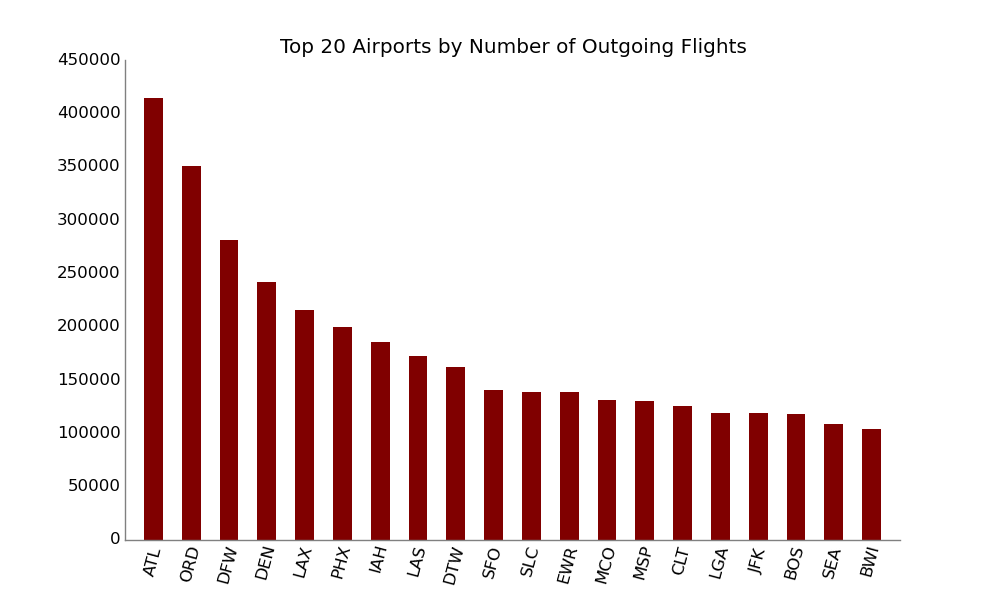
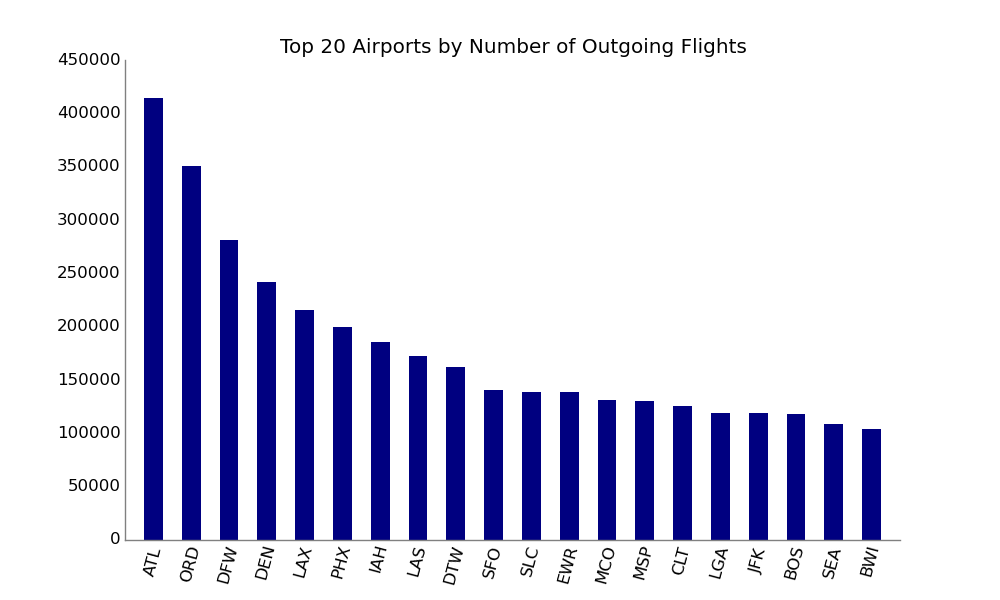
edit plot

Changed region(s): [[0.124, 0.15, 0.899, 0.9]]

diff --git a/PythonScripts/num_outgoing_by_airport/bar_plot.py b/PythonScripts/num_outgoing_by_airport/bar_plot.py
@@ -44,7 +44,7 @@ def main():
     ax.yaxis.set_ticks_position('none')
     ax.xaxis.set_ticks_position('none')
 
-    plt.bar(x, y, width=.5, color='maroon', edgecolor='none')
+    plt.bar(x, y, width=.5, color='navy', edgecolor='none')
 
     plt.savefig("../../plots/top_20_outgoing.png")
 
